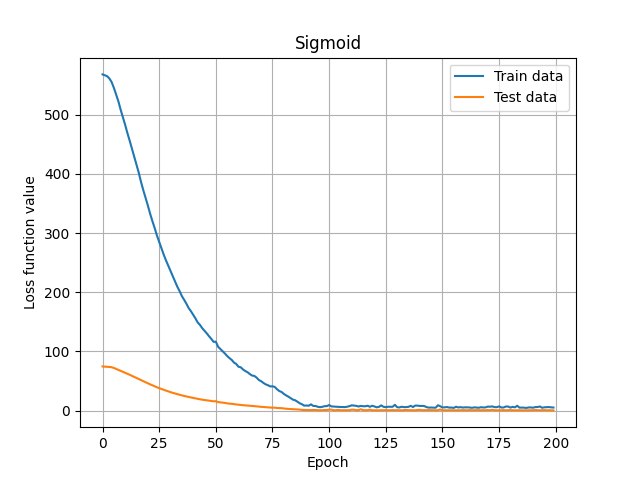
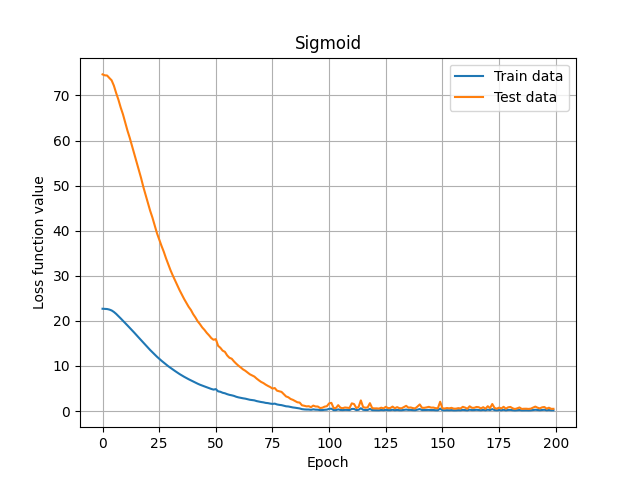
Fix errors calculation

diff --git a/neural_network/neural_network.py b/neural_network/neural_network.py
@@ -58,7 +58,7 @@ class NeuralNetwork:
             yield x_train[:, indices[start: end]], y_train[:, indices[start: end]]
 
     def train(self, x_train: np.ndarray, y_train: np.ndarray, epochs: int, learning_rate: float,
-              minibatch_size: int, calc_test_err: bool = False, x_test: Optional[np.ndarray] = None,
+              minibatch_size: int, calc_errors: bool = False, x_test: Optional[np.ndarray] = None,
               y_test: Optional[np.ndarray] = None):
         assert isinstance(epochs, int) and epochs > 0, 'Number of epochs must be integer bigger than 0'
         assert isinstance(learning_rate, float) and learning_rate > 0, 'Learning rate must be float bigger than 0'
@@ -69,40 +69,36 @@ class NeuralNetwork:
         assert isinstance(y_train, np.ndarray)
         assert x_train.shape[1] == y_train.shape[1]
 
-        assert isinstance(calc_test_err, bool)
-        if calc_test_err:
+        assert isinstance(calc_errors, bool)
+        if calc_errors:
             assert isinstance(x_test, np.ndarray)
             assert isinstance(y_test, np.ndarray)
             assert x_test.shape[1] == y_test.shape[1]
 
             test_len = x_test.shape[1]
+            train_len = x_train.shape[1]
 
-        train_len = x_train.shape[1]
-
-        test_errors = []
-        errors = []
+            test_errors = []
+            errors = []
 
         for epoch in range(epochs):
-            if calc_test_err:
+            if calc_errors:
                 test_output = self.forward_propagation(x_test, no_grad=True)
                 test_errors.append(self._loss_function.loss(test_output, y_test) / test_len)
+                train_output = self.forward_propagation(x_train, no_grad=True)
+                errors.append(self._loss_function.loss(train_output, y_train) / train_len)
 
-            epoch_error = 0
+
             minibatch_generator = self.minibatch_generator(x_train, y_train, minibatch_size, True)
             for x, y in minibatch_generator:
                 output = self.forward_propagation(x)
-                epoch_error += self._loss_function.loss(output, y)
                 error_derivative = self._loss_function.derivative(output, y)
                 self.backward_propagation(error_derivative, learning_rate)
 
-            errors.append(epoch_error / train_len)
-
-
-        if calc_test_err:
-
+        if calc_errors:
             return errors, test_errors
 
-        return errors
+        return None
 
     def score(self, x_true: np.array, y_true: np.array):
         predictions = self.predict(x_true)

diff --git a/main.py b/main.py
@@ -111,7 +111,7 @@ for num_of_samples in [1000, 100]:
         neural_network = create_network(activation, n_features, output_size=1)
         errors, test_errors = neural_network.train(
             x_train.T, y_train.T, learning_rate=learning_rate, epochs=epochs, minibatch_size=minibatch_size,
-            calc_test_err=True, x_test=x_test.T, y_test=y_test.T)
+            calc_errors=True, x_test=x_test.T, y_test=y_test.T)
 
         plot_errors(f'results/{activation}_n_samples{num_of_samples}.png', errors, test_errors, activation)
 
